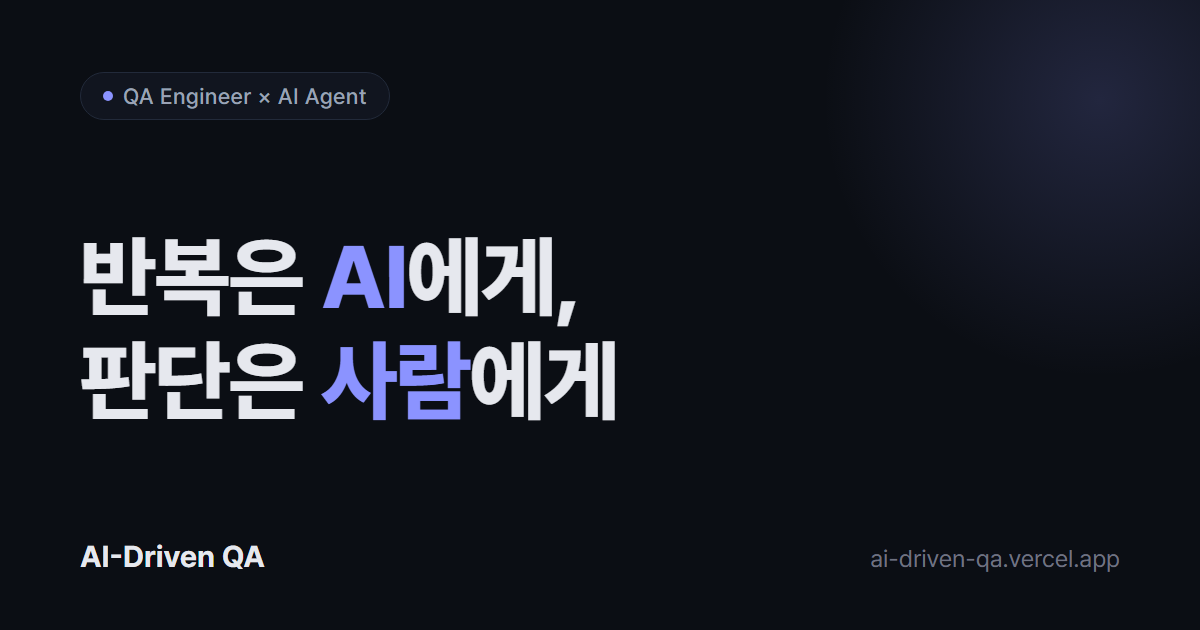
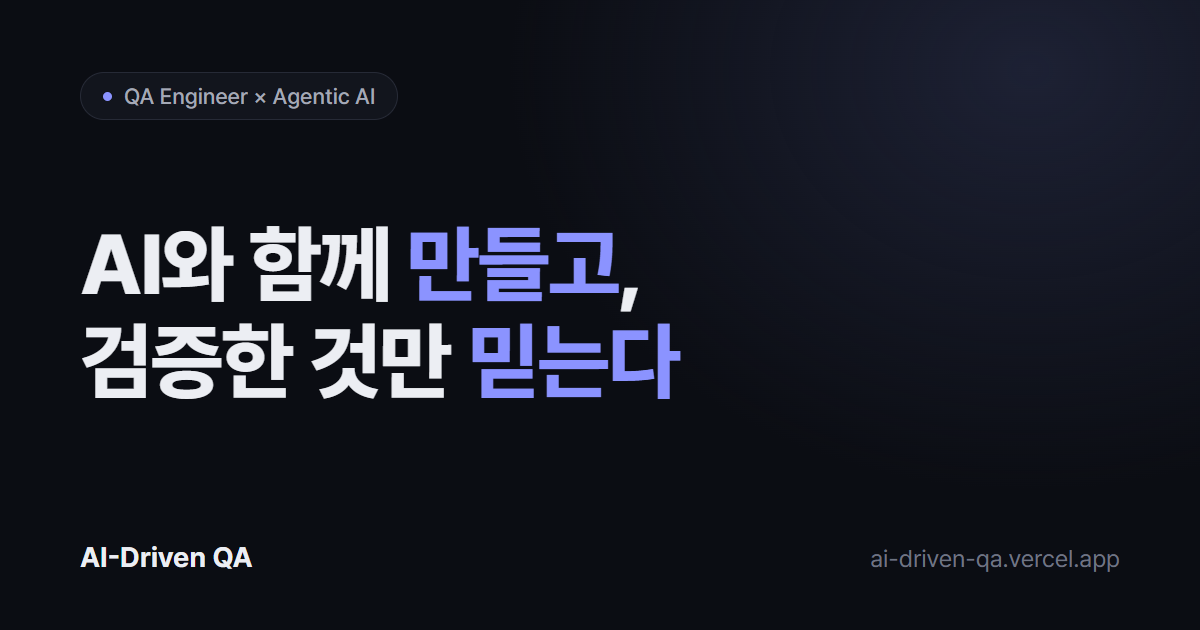
첫 화면 문구 교체: 「AI와 함께 만들고, 검증한 것만 믿는다」 + 사이트 설명·OG 이미지
- 히어로: 반복은 AI에게, 판단은 사람에게 → AI와 함께 만들고, 검증한 것만 믿는다 (Dean 10-16)
- 소개 문장 범위를 기획·개발·디자인까지로, 「반복 → 스크립트 · 판단 → AI · 결정 → 사람」 알약 3개
- site.description 동일 문구, public/default-og.png 새 슬로건으로 다시 찍음
- OG 원본이 저장소에 없어 docs/og-src/(HTML + 촬영 스크립트)로 남긴다

Claude-Session: https://claude.ai/code/session_016ULfN9nBqMP2ZfWSrq3qkT

Changed region(s): [[0.0617, 0.3619, 0.5858, 0.6937], [0.0925, 0.1206, 0.3083, 0.181], [0.0617, 0.8444, 0.2158, 0.9048]]

diff --git a/docs/og-src/default-og.html b/docs/og-src/default-og.html
@@ -1,0 +1,26 @@
+<!doctype html>
+<!-- 사이트 기본 OG 이미지(public/default-og.png) 원본. 1200×630.
+     다시 찍기: node docs/og-src/shot-og.cjs  (Playwright 필요, PW 환경변수로 경로)
+     2026-10-16 슬로건 교체 때 원본이 저장소에 없어 같은 디자인으로 다시 만들었다(07-23 판은 원본 유실). -->
+<html lang="ko"><head><meta charset="utf-8">
+<link rel="stylesheet" href="https://cdn.jsdelivr.net/gh/orioncactus/pretendard@v1.3.9/dist/web/variable/pretendardvariable-dynamic-subset.min.css">
+<style>
+  html,body{margin:0}
+  .og{width:1200px;height:630px;box-sizing:border-box;padding:72px 80px 60px;position:relative;overflow:hidden;
+      font-family:"Pretendard Variable",Pretendard,sans-serif;color:#eceef3;
+      background:radial-gradient(520px 420px at 1030px 70px,#1d2134 0%,rgba(29,33,52,0) 100%),#0b0d13}
+  .pill{display:inline-flex;align-items:center;gap:12px;padding:10px 22px;border:1px solid #262a36;border-radius:999px;
+        background:#12151d;color:#a4a9b6;font-size:22px;font-weight:500}
+  .pill i{width:9px;height:9px;border-radius:50%;background:#8b93ff;display:inline-block}
+  h1{margin:96px 0 0;font-size:84px;line-height:1.15;font-weight:800;letter-spacing:-2px}
+  h1 b{color:#8b93ff;font-weight:800}
+  .foot{position:absolute;left:80px;right:80px;bottom:56px;display:flex;justify-content:space-between;align-items:baseline}
+  .name{font-size:28px;font-weight:700}
+  .url{font-size:24px;color:#6f7482}
+</style></head><body>
+<div class="og">
+  <div class="pill"><i></i>QA Engineer × Agentic AI</div>
+  <h1>AI와 함께 <b>만들고</b>,<br>검증한 것만 <b>믿는다</b></h1>
+  <div class="foot"><span class="name">AI-Driven QA</span><span class="url">ai-driven-qa.vercel.app</span></div>
+</div>
+</body></html>

diff --git a/astro-paper.config.ts b/astro-paper.config.ts
@@ -5,7 +5,7 @@ export default defineAstroPaperConfig({
     url: "https://ai-driven-qa.vercel.app/",
     title: "AI-Driven QA",
     description:
-      "반복은 AI에게, 판단은 사람에게 — QA 자동화와 AI 협업의 실전 기록",
+      "AI와 함께 만들고, 검증한 것만 믿는다 — QA 엔지니어의 Agentic AI 실전 기록",
     author: "공윤구",
     profile: "",
     ogImage: "default-og.png",
